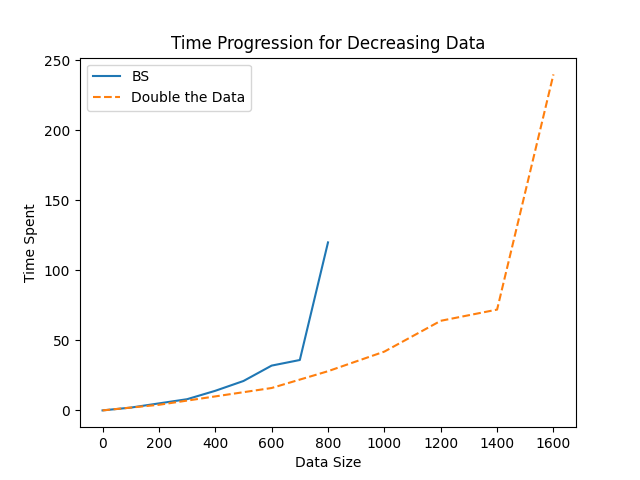
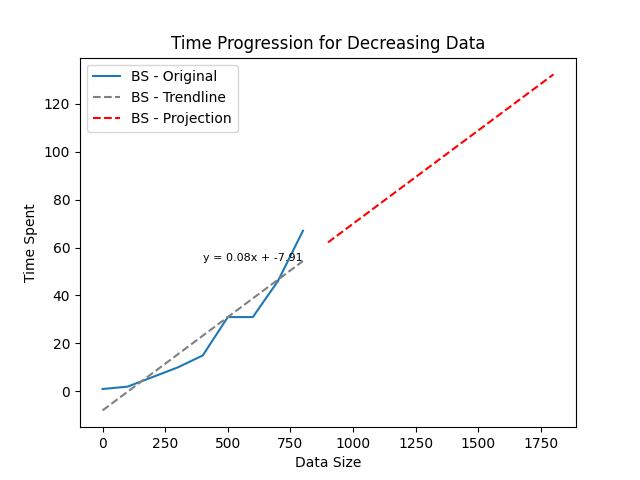
feat: add projection

diff --git a/charts.py b/charts.py
@@ -1,21 +1,37 @@
-from utils import algorithms, N, T
 from typing import List
-
+import numpy as np
 import matplotlib.pyplot as plt
+from scipy.stats import linregress
+from utils import algorithms, N, T
 
 sizes = [i * T for i in range(N)]
 
-def plot_algorithm_progression(results: List[List[float]], title: str, filename: str) -> None:
+def plot_algorithm_progression(results: List[List[float]], title: str, filename_prefix: str) -> None:
     for idx, algorithm in enumerate(algorithms):
-        times = [x[idx] for x in results]
-        plt.plot(sizes, times, label=algorithm)
-        plt.plot([2 * size for size in sizes], [2 * time for time in times], linestyle='--', label='Double the Data')
+        times = [result[idx] for result in results]
+        plt.plot(sizes, times, label=f'{algorithm} - Original', linestyle='-')
+
+        # Calcula a regressão linear
+        slope, intercept, r_value, p_value, std_err = linregress(sizes, times)
+        line = slope * np.array(sizes) + intercept
+
+        # Plota a linha de tendência
+        plt.plot(sizes, line, linestyle='--', color='gray', label=f'{algorithm} - Trendline')
+
+        # Anota a equação da linha
+        equation = f'y = {slope:.2f}x + {intercept:.2f}'
+        plt.text(sizes[-1], line[-1], equation, fontsize=8, ha='right')
+
+        # Calcula os tamanhos de dados adicionais para a linha de projeção
+        projection_sizes = list(range(N * T, 2 * N * T + T, T))
+        projection_line = slope * np.array(projection_sizes) + intercept
+
+        # Plota a linha de projeção
+        plt.plot(projection_sizes, projection_line, linestyle='--', color='red', label=f'{algorithm} - Projection')
 
         plt.xlabel('Data Size')
         plt.ylabel('Time Spent')
-
         plt.title(f'Time Progression for {title}')
-
         plt.legend()
-        plt.savefig(f'result/charts/{filename}_{algorithm}.png')
+        plt.savefig(f'result/charts/{filename_prefix}_{algorithm}.png')
         plt.close()
